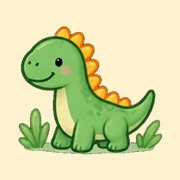
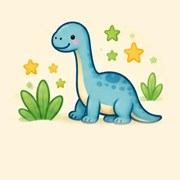
Character 13: the blue long-neck dinosaur from the sticker sheet

diff --git a/src/scripts/12b-characters.js b/src/scripts/12b-characters.js
@@ -16,7 +16,7 @@ const CHARACTERS = {
   ch10:{ src:'@asset(characters/ch10.jpg)', ring:'#7cc576', label:'אריה' },
   ch11:{ src:'@asset(characters/ch11.jpg)', ring:'#6ab4ea', label:'ג\'ויסטיק' },
   ch12:{ src:'@asset(characters/ch12.jpg)', ring:'#6ab4ea', label:'סירה' },
-  ch13:{ src:'@asset(characters/ch13.jpg)', ring:'#f4c95d', label:'דינו ארוך צוואר' },
+  ch13:{ src:'@asset(characters/ch13.jpg)', ring:'#f4c95d', label:'דינוזאור כחול' },
   ch14:{ src:'@asset(characters/ch14.jpg)', ring:'#6ab4ea', label:'כוכב' }
 };
 const CHARACTER_KEYS = Object.keys(CHARACTERS);
